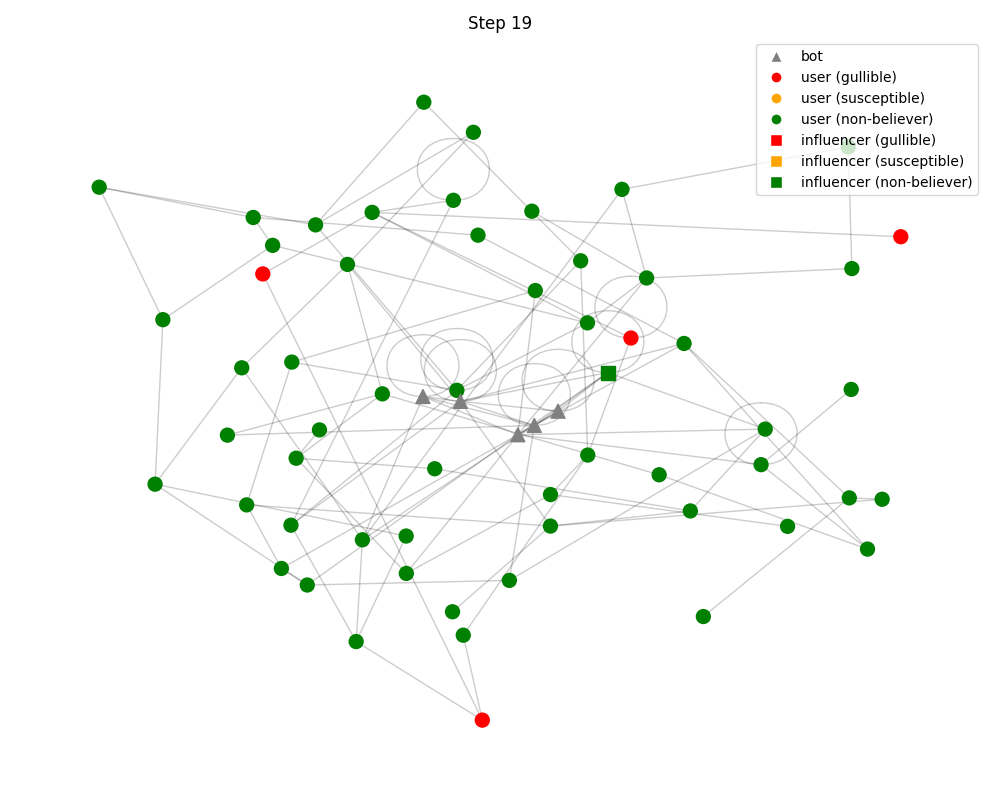
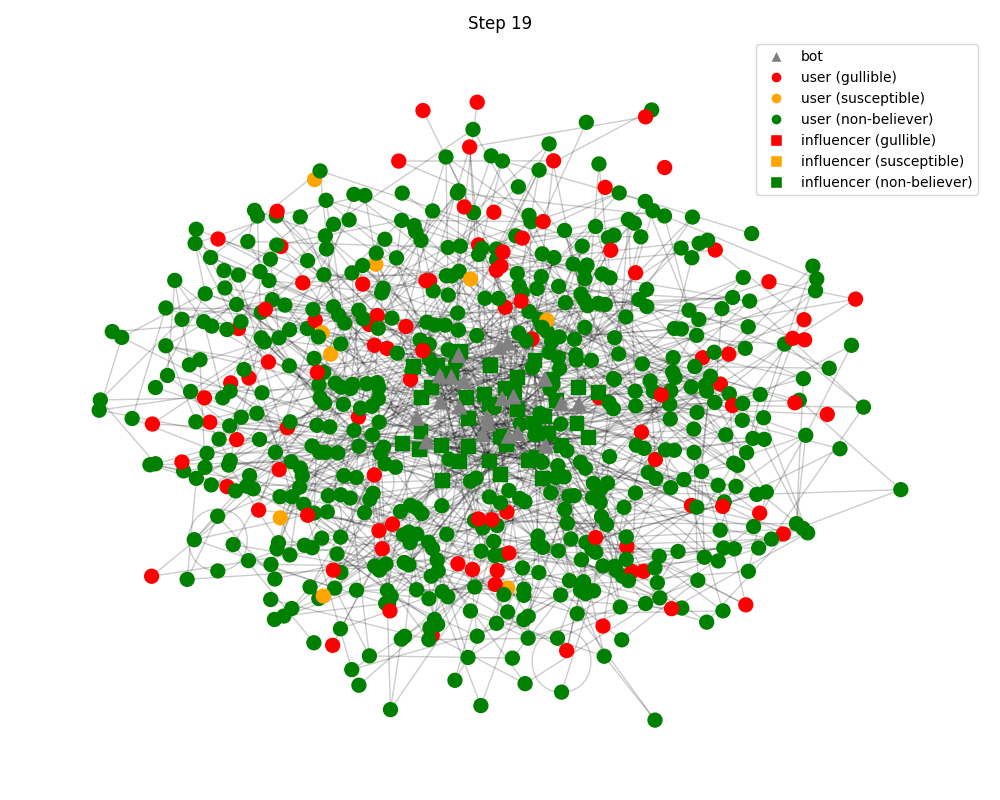
aggiunti grafici

diff --git a/main.py b/main.py
@@ -5,7 +5,7 @@ import networkx as nx
 from matplotlib.patches import Patch
 from matplotlib.lines import Line2D
 
-model = FakeNewsModel(num_agents=100, num_influencers=10, num_bots=5)
+model = FakeNewsModel(num_agents=1000, num_influencers=100, num_bots=50)
 
 color_map = {
     "non-believer": "green",
@@ -19,12 +19,18 @@ shape_map = {
     "bot": "^"           # triangolo
 }
 
+susceptible_count = []
+gullible_count = []
+non_believer_count = []
+
+
+true_news_shares = []
+fake_news_shares = []
 pos = nx.spring_layout(model.graph, seed=42)
 
-for step_num in range(25):
+for step_num in range(70):
     print(f"Step {step_num}")
     if step_num % 3 == 0:
-        print("nuova connessione")
         gullible = [a for a in model.agent_set if a.credulity == "gullible"]
         susceptible = [a for a in model.agent_set if a.credulity == "susceptible"]
         non_believer = [a for a in model.agent_set if a.credulity == "non-believer"]
@@ -70,7 +76,6 @@ for step_num in range(25):
             model.graph.remove_node(agent.unique_id)
         agent.shared = False
     
-    susceptible = [a.unique_id for a in model.agents if a.credulity == "susceptible"]
     plt.figure(figsize=(10, 8))
    
 
@@ -112,7 +117,45 @@ for step_num in range(25):
     plt.legend(handles=legend_elements, loc='upper right')
     plt.savefig(f"results/step_{step_num:02d}.png")
     plt.close()
-    print(len(gullible))
-    print(len(non_believer))
-    print(len(susceptible))
+
+    susceptible_count.append(sum(1 for a in model.agents_by_id.values() if a.credulity == "susceptible" and not a.deleted))
+    gullible_count.append(sum(1 for a in model.agents_by_id.values() if a.credulity == "gullible" and not a.deleted))
+    non_believer_count.append(sum(1 for a in model.agents_by_id.values() if a.credulity == "non-believer" and not a.deleted))
+
     model.step()
+
+    true_shares = sum(news.total_shares for news in model.all_news.values() if not news.is_fake)
+    fake_shares = sum(news.total_shares for news in model.all_news.values() if news.is_fake)
+
+    true_news_shares.append(true_shares)
+    fake_news_shares.append(fake_shares)
+
+plt.figure(figsize=(8, 5))
+plt.plot(susceptible_count, label="Susceptible", color="orange", linestyle='-', linewidth=2)
+plt.plot(gullible_count, label="Gullible", color="red", linestyle='-', linewidth=2)
+plt.plot(non_believer_count, label="Non-Believer", color="green", linestyle='-', linewidth=2)
+
+plt.xlabel("Timesteps", fontsize=12)
+plt.ylabel("Number of agents", fontsize=12)
+plt.title("Agents' Credulity Over Time", fontsize=14)
+
+plt.grid(True, linestyle='--', alpha=0.6)
+plt.legend(frameon=False)
+plt.tight_layout()
+plt.savefig("results/agents_evolution_better.png")
+plt.close()
+  
+
+plt.figure(figsize=(8, 5))
+plt.plot(true_news_shares, label="True News Shares", color="blue", linestyle='-', linewidth=2, marker='o', markersize=4)
+plt.plot(fake_news_shares, label="Fake News Shares", color="purple", linestyle='-', linewidth=2, marker='x', markersize=4)
+
+plt.xlabel("Timesteps", fontsize=12)
+plt.ylabel("Total Shares", fontsize=12)
+plt.title("News Diffusion Over Time", fontsize=14)
+
+plt.grid(True, linestyle='--', alpha=0.6)
+plt.legend(frameon=False)
+plt.tight_layout()
+plt.savefig("results/news_diffusion_better.png")
+plt.close()

diff --git a/SocialAgent.py b/SocialAgent.py
@@ -20,6 +20,7 @@ class SocialAgent(Agent):
             return
         if self.role == "bot":
             news = News(content_id=str(uuid.uuid4()), is_fake=True)
+            self.model.all_news[news.content_id] = news
             if self.reports_received >= 3:
                 news.is_flagged = True
             for neighbor_id in list(self.model.graph.neighbors(self.unique_id)):
@@ -33,6 +34,7 @@ class SocialAgent(Agent):
         elif self.role in ["user", "influencer"]:
             if self.credulity == "gullible" and random.random() < 0.8:
                 news = News(content_id=str(uuid.uuid4()), is_fake=True)
+                self.model.all_news[news.content_id] = news
                 if self.reports_received >= 3:
                     news.is_flagged = True
                 for neighbor_id in list(self.model.graph.neighbors(self.unique_id)):
@@ -43,8 +45,9 @@ class SocialAgent(Agent):
                         neighbor.receive_fake_news(self.unique_id, news)
             elif self.credulity == "non-believer" and random.random() < 0.3:
                 news = News(content_id=str(uuid.uuid4()), is_fake=False)
+                self.model.all_news[news.content_id] = news
                 if self.reports_received >= 3:
-                     print("notizia non believer gia flaggata")
+                     #print("notizia non believer gia flaggata")
                      news.is_flagged = True
                 for neighbor_id in list(self.model.graph.neighbors(self.unique_id)):
                     neighbor = self.model.agents_by_id[neighbor_id]
@@ -58,11 +61,10 @@ class SocialAgent(Agent):
         if news.is_banned:
             return
         score = news.credibility_score
-        #fare un riassunto delle pratiche di ban, aggiungendone magari una che rallenti o banni
         # === NON-BELIEVER ===
         if self.credulity == "non-believer":
             if news.is_flagged:
-                if score < 0.5:
+                if score <= 0.5:
                     self.model.send_report(news, self, sender_id)
 
             elif score >= 0.7:

diff --git a/FakeNewsModel.py b/FakeNewsModel.py
@@ -9,7 +9,7 @@ from mesa.agent import AgentSet
 class FakeNewsModel(Model):
     def __init__(self, num_agents, num_influencers, num_bots):
         super().__init__() 
-        self.delayed_news = {}
+        self.all_news = {}
         self.step_num = 0
         self.num_agents = num_agents
         self.agent_set = AgentSet([])
@@ -123,18 +123,27 @@ class FakeNewsModel(Model):
                 if news.reports >= 3 and not news.is_flagged:
                     news.is_flagged = True
                 reporter.false_reports += 1
-                print(f"Report infondato: {reporter.unique_id} ha segnalato una notizia vera.")
-        else:
-            print(f"reporter  {reporter.credulity} non può piu segnalare")
+                #print(f"Report infondato: {reporter.unique_id} ha segnalato una notizia vera.")
     
     def share_news(self, sharer_agent, news):
         news.sharers.add(sharer_agent.unique_id)
         sharer_agent.news_registry[news.content_id] = news
         self.update_credibility(news)
+        news.total_shares += 1
+        reports = sharer_agent.reports_received
+        visible_ratio = max(0, 1.0 - 0.2 * reports) 
+        neighbors = list(self.graph.neighbors(sharer_agent.unique_id))
 
-        for neighbor_id in list(self.graph.neighbors(sharer_agent.unique_id)):
+        if visible_ratio == 1.0:
+            target_neighbors = neighbors
+        else:
+            k = int(visible_ratio * len(neighbors))
+            target_neighbors = random.sample(neighbors, k)
+
+        for neighbor_id in target_neighbors:
             neighbor = self.agents_by_id[neighbor_id]
             if not neighbor.deleted and news.content_id not in neighbor.news_registry:
                 neighbor.receive_fake_news(sharer_agent.unique_id, news)
+
 
                 

diff --git a/News.py b/News.py
@@ -7,3 +7,4 @@ class News:
         self.sharers = set()
         self.credibility_score = 0.5
         self.is_banned = False
+        self.total_shares = 0
